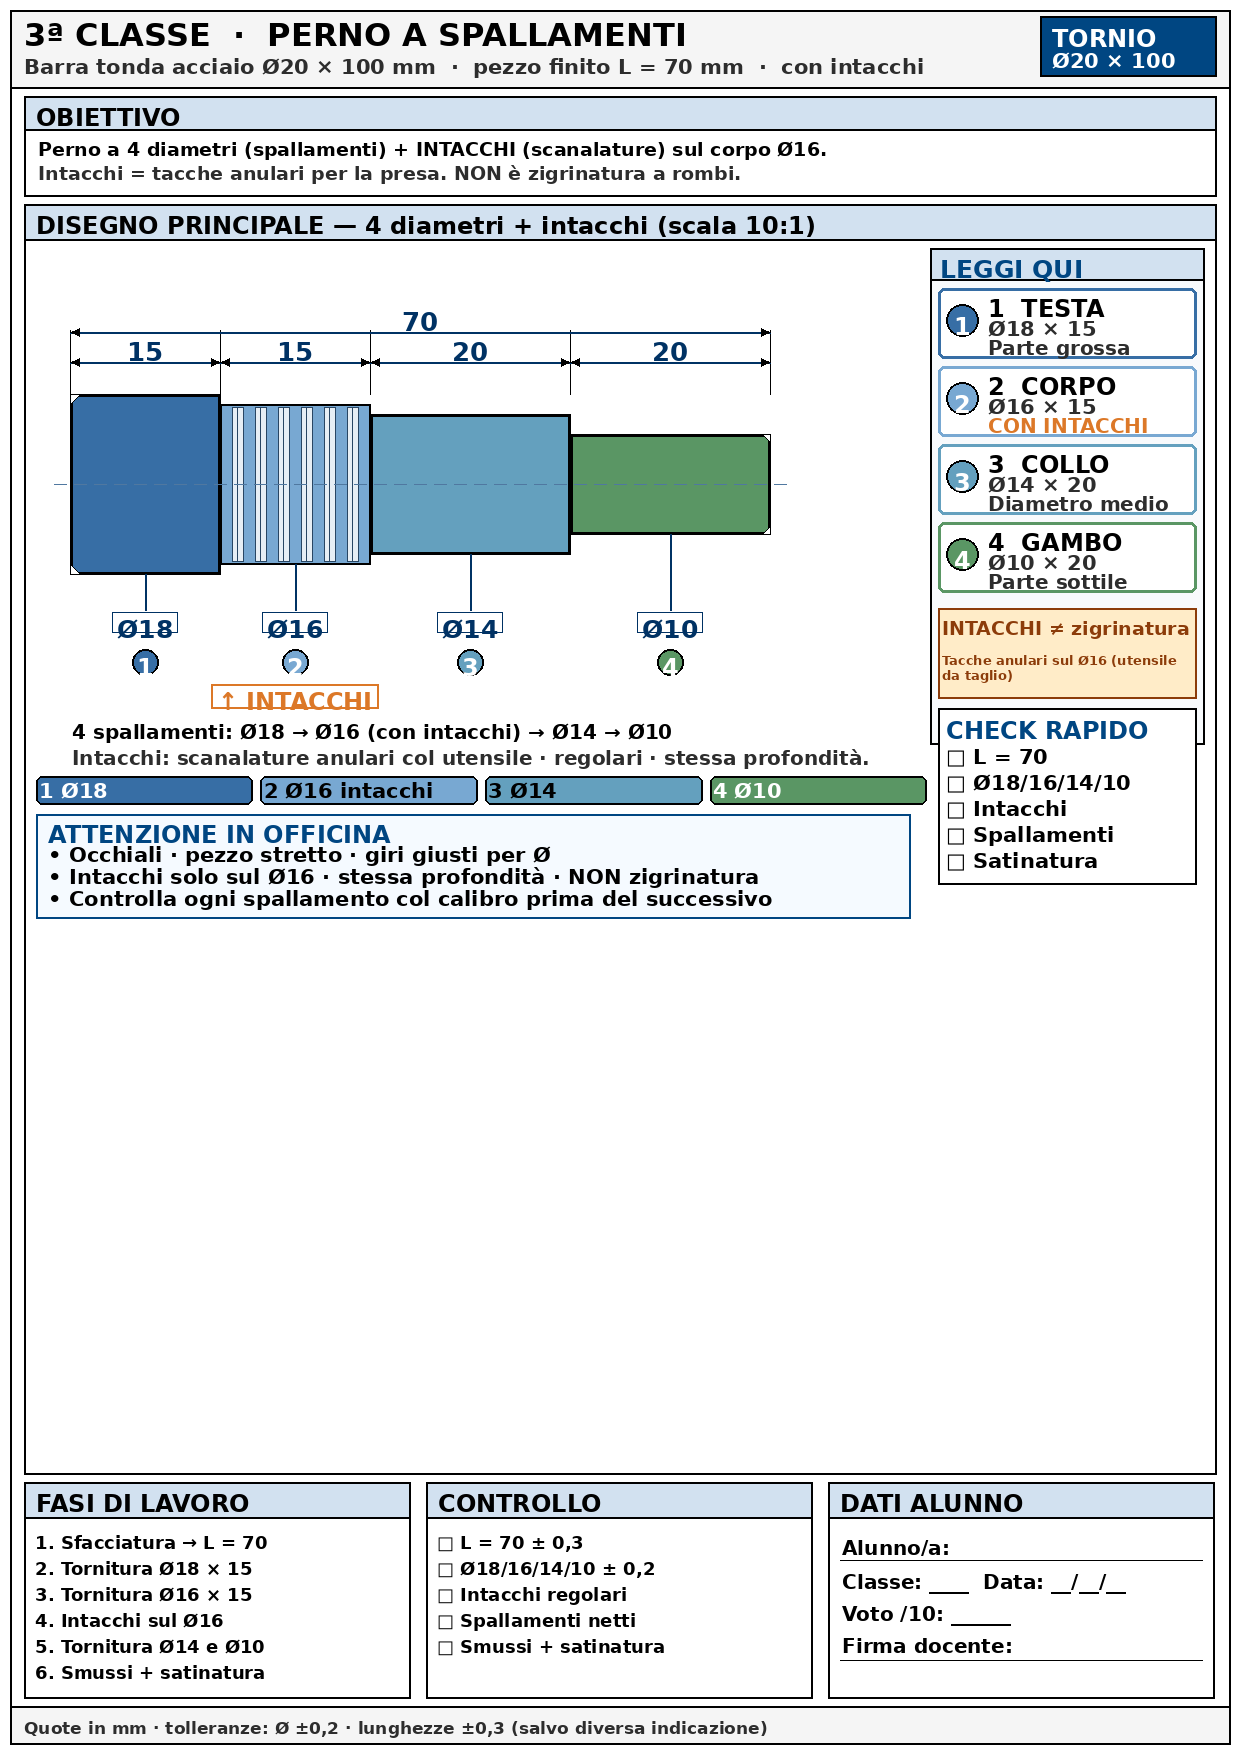
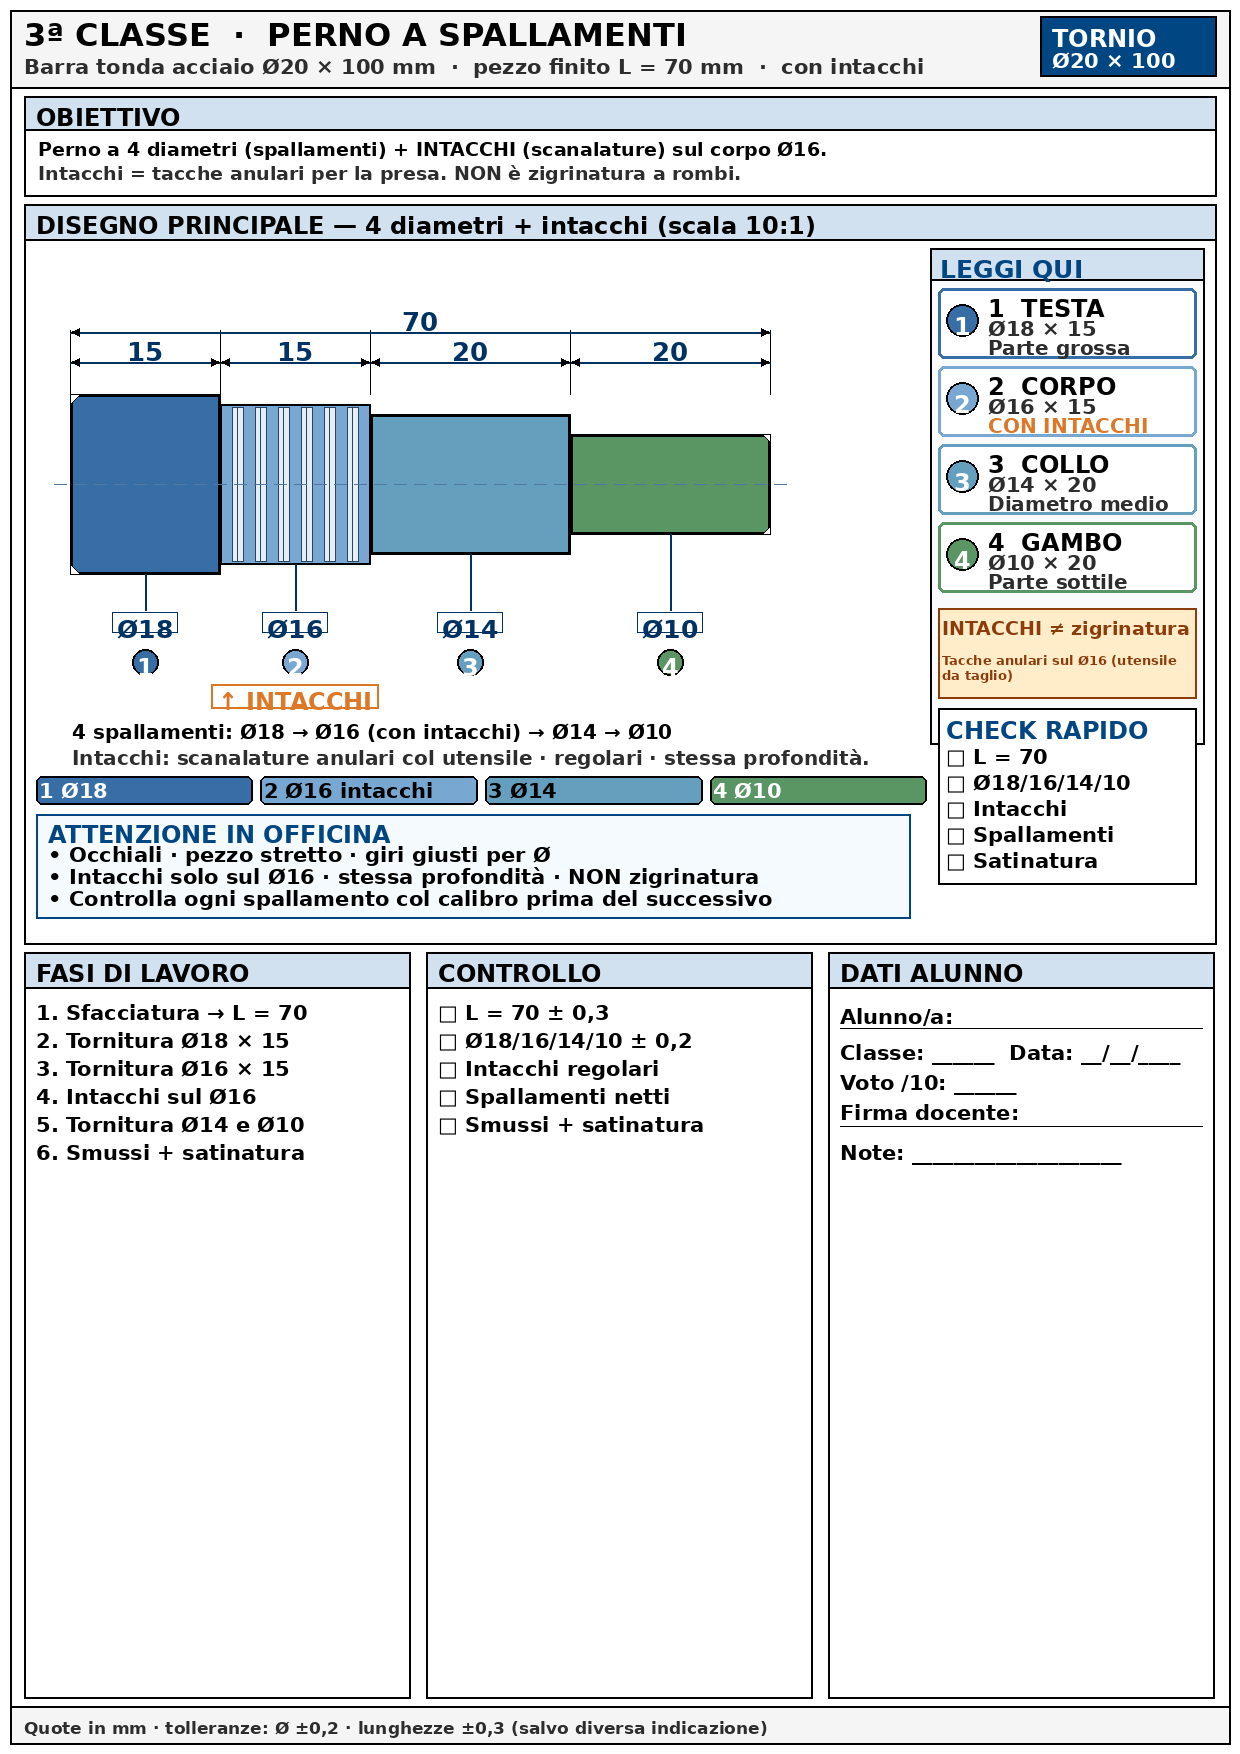
Fasi/Controllo/Dati alti come sulla 5ª (2ª e 3ª).
Stesso layout: disegno h=740, resto allo spazio pannelli.

Changed region(s): [[0.0, 0.5234, 0.9806, 0.9544]]

diff --git a/progetti-ferro-gallery/generate_ferro.py b/progetti-ferro-gallery/generate_ferro.py
@@ -478,18 +478,18 @@ def make_2a():
         "□ Massa ≈ 100 g",
         "□ Solo ferro (no manico)",
     ]
-    # Pannelli bassi: stesse dimensioni delle altre schede (3 colonne uguali + stessa altezza)
-    step = 26
-    bh = 40 + max(len(fasi), len(ctrl)) * step + 20
-    bot = FOOT - bh - 8
-    draw_h = bot - draw_top - 8
+    # Pannelli bassi come 5ª: disegno fisso, resto → Fasi/Controllo/Dati (alti)
+    draw_h = 740
+    bot = draw_top + draw_h + 8
+    bh = FOOT - bot - 8
     panel(d, 24, draw_top, W - 48, draw_h, "VISTA LATERALE — ortogonale · ≈100 g · sezione occhio (scala 11:1)")
     panel_bottom = draw_top + draw_h
     gap_p = 16
-    col_w = (W - 48 - 2 * gap_p) // 3   # ≈386 — uguali tra loro
+    col_w = (W - 48 - 2 * gap_p) // 3
     x_fasi = 24
     x_ctrl = x_fasi + col_w + gap_p
     x_dati = x_ctrl + col_w + gap_p
+    step = list_step(max(len(fasi), len(ctrl)), bh - 48)
 
     FACE_C = (70, 110, 150)
     IRON = (55, 58, 62)
@@ -650,19 +650,20 @@ def make_2a():
 
     y = panel(d, x_fasi, bot, col_w, bh, "FASI DI LAVORO")
     for i, ln in enumerate(fasi):
-        text_in_box(d, x_fasi + 8, y + 2 + i * step, col_w - 16, step - 2, ln, F13, BLACK, pad=3)
+        d.text((x_fasi + 12, y + 2 + i * step), ln, fill=BLACK, font=F12)
 
     y2 = panel(d, x_ctrl, bot, col_w, bh, "CONTROLLO")
     for i, ln in enumerate(ctrl):
-        text_in_box(d, x_ctrl + 8, y2 + 2 + i * step, col_w - 16, step - 2, ln, F13, BLACK, pad=3)
+        d.text((x_ctrl + 12, y2 + 2 + i * step), ln, fill=BLACK, font=F12)
 
     y3 = panel(d, x_dati, bot, col_w, bh, "DATI ALUNNO")
-    text_in_box(d, x_dati + 12, y3 + 6, col_w - 24, 24, "Alunno/a:", F13, BLACK, pad=2)
-    d.line([x_dati + 12, y3 + 32, x_dati + col_w - 12, y3 + 32], fill=BLACK, width=1)
-    text_in_box(d, x_dati + 12, y3 + 40, col_w - 24, 24, "Classe: ____  Data: __/__/__", F13, BLACK, pad=2)
-    text_in_box(d, x_dati + 12, y3 + 72, col_w - 24, 24, "Voto /10: ______", F13, BLACK, pad=2)
-    text_in_box(d, x_dati + 12, y3 + 104, col_w - 24, 24, "Firma docente:", F13, BLACK, pad=2)
-    d.line([x_dati + 12, y3 + 132, x_dati + col_w - 12, y3 + 132], fill=BLACK, width=1)
+    d.text((x_dati + 12, y3 + 6), "Alunno/a:", fill=BLACK, font=F12)
+    d.line([x_dati + 12, y3 + 30, x_dati + col_w - 12, y3 + 30], fill=BLACK, width=1)
+    d.text((x_dati + 12, y3 + 42), "Classe: ______  Data: __/__/____", fill=BLACK, font=F12)
+    d.text((x_dati + 12, y3 + 72), "Voto /10: ______", fill=BLACK, font=F12)
+    d.text((x_dati + 12, y3 + 102), "Firma docente:", fill=BLACK, font=F12)
+    d.line([x_dati + 12, y3 + 128, x_dati + col_w - 12, y3 + 128], fill=BLACK, width=1)
+    d.text((x_dati + 12, y3 + 142), "Note: ____________________", fill=BLACK, font=F12)
 
     save(img, "01-2a-testa-martello.png", "STAMPA-2a-testa-martello.png")
 
@@ -700,10 +701,11 @@ def make_3a():
         "□ Spallamenti netti",
         "□ Smussi + satinatura",
     ]
-    step = 26
-    bh = 40 + max(len(fasi), len(ctrl)) * step + 20
-    bot = FOOT - bh - 8
-    draw_h = bot - draw_top - 8
+    # Pannelli bassi come 5ª
+    draw_h = 740
+    bot = draw_top + draw_h + 8
+    bh = FOOT - bot - 8
+    step = list_step(max(len(fasi), len(ctrl)), bh - 48)
     panel(d, 24, draw_top, W - 48, draw_h, "DISEGNO PRINCIPALE — 4 diametri + intacchi (scala 10:1)")
     panel_bottom = draw_top + draw_h
 
@@ -856,19 +858,20 @@ def make_3a():
     x_fasi, x_ctrl, x_dati = 24, 24 + col_w + gap_p, 24 + 2 * (col_w + gap_p)
     y = panel(d, x_fasi, bot, col_w, bh, "FASI DI LAVORO")
     for i, ln in enumerate(fasi):
-        text_in_box(d, x_fasi + 8, y + 2 + i * step, col_w - 16, step - 2, ln, F13, BLACK, pad=3)
+        d.text((x_fasi + 12, y + 2 + i * step), ln, fill=BLACK, font=F12)
 
     y2 = panel(d, x_ctrl, bot, col_w, bh, "CONTROLLO")
     for i, ln in enumerate(ctrl):
-        text_in_box(d, x_ctrl + 8, y2 + 2 + i * step, col_w - 16, step - 2, ln, F13, BLACK, pad=3)
+        d.text((x_ctrl + 12, y2 + 2 + i * step), ln, fill=BLACK, font=F12)
 
     y3 = panel(d, x_dati, bot, col_w, bh, "DATI ALUNNO")
-    text_in_box(d, x_dati + 12, y3 + 6, col_w - 24, 24, "Alunno/a:", F13, BLACK, pad=2)
-    d.line([x_dati + 12, y3 + 32, x_dati + col_w - 12, y3 + 32], fill=BLACK, width=1)
-    text_in_box(d, x_dati + 12, y3 + 40, col_w - 24, 24, "Classe: ____  Data: __/__/__", F13, BLACK, pad=2)
-    text_in_box(d, x_dati + 12, y3 + 72, col_w - 24, 24, "Voto /10: ______", F13, BLACK, pad=2)
-    text_in_box(d, x_dati + 12, y3 + 104, col_w - 24, 24, "Firma docente:", F13, BLACK, pad=2)
-    d.line([x_dati + 12, y3 + 132, x_dati + col_w - 12, y3 + 132], fill=BLACK, width=1)
+    d.text((x_dati + 12, y3 + 6), "Alunno/a:", fill=BLACK, font=F12)
+    d.line([x_dati + 12, y3 + 30, x_dati + col_w - 12, y3 + 30], fill=BLACK, width=1)
+    d.text((x_dati + 12, y3 + 42), "Classe: ______  Data: __/__/____", fill=BLACK, font=F12)
+    d.text((x_dati + 12, y3 + 72), "Voto /10: ______", fill=BLACK, font=F12)
+    d.text((x_dati + 12, y3 + 102), "Firma docente:", fill=BLACK, font=F12)
+    d.line([x_dati + 12, y3 + 128, x_dati + col_w - 12, y3 + 128], fill=BLACK, width=1)
+    d.text((x_dati + 12, y3 + 142), "Note: ____________________", fill=BLACK, font=F12)
 
     save(img, "02-3a-perno-spallamenti.png", "STAMPA-3a-perno-spallamenti.png")
 
